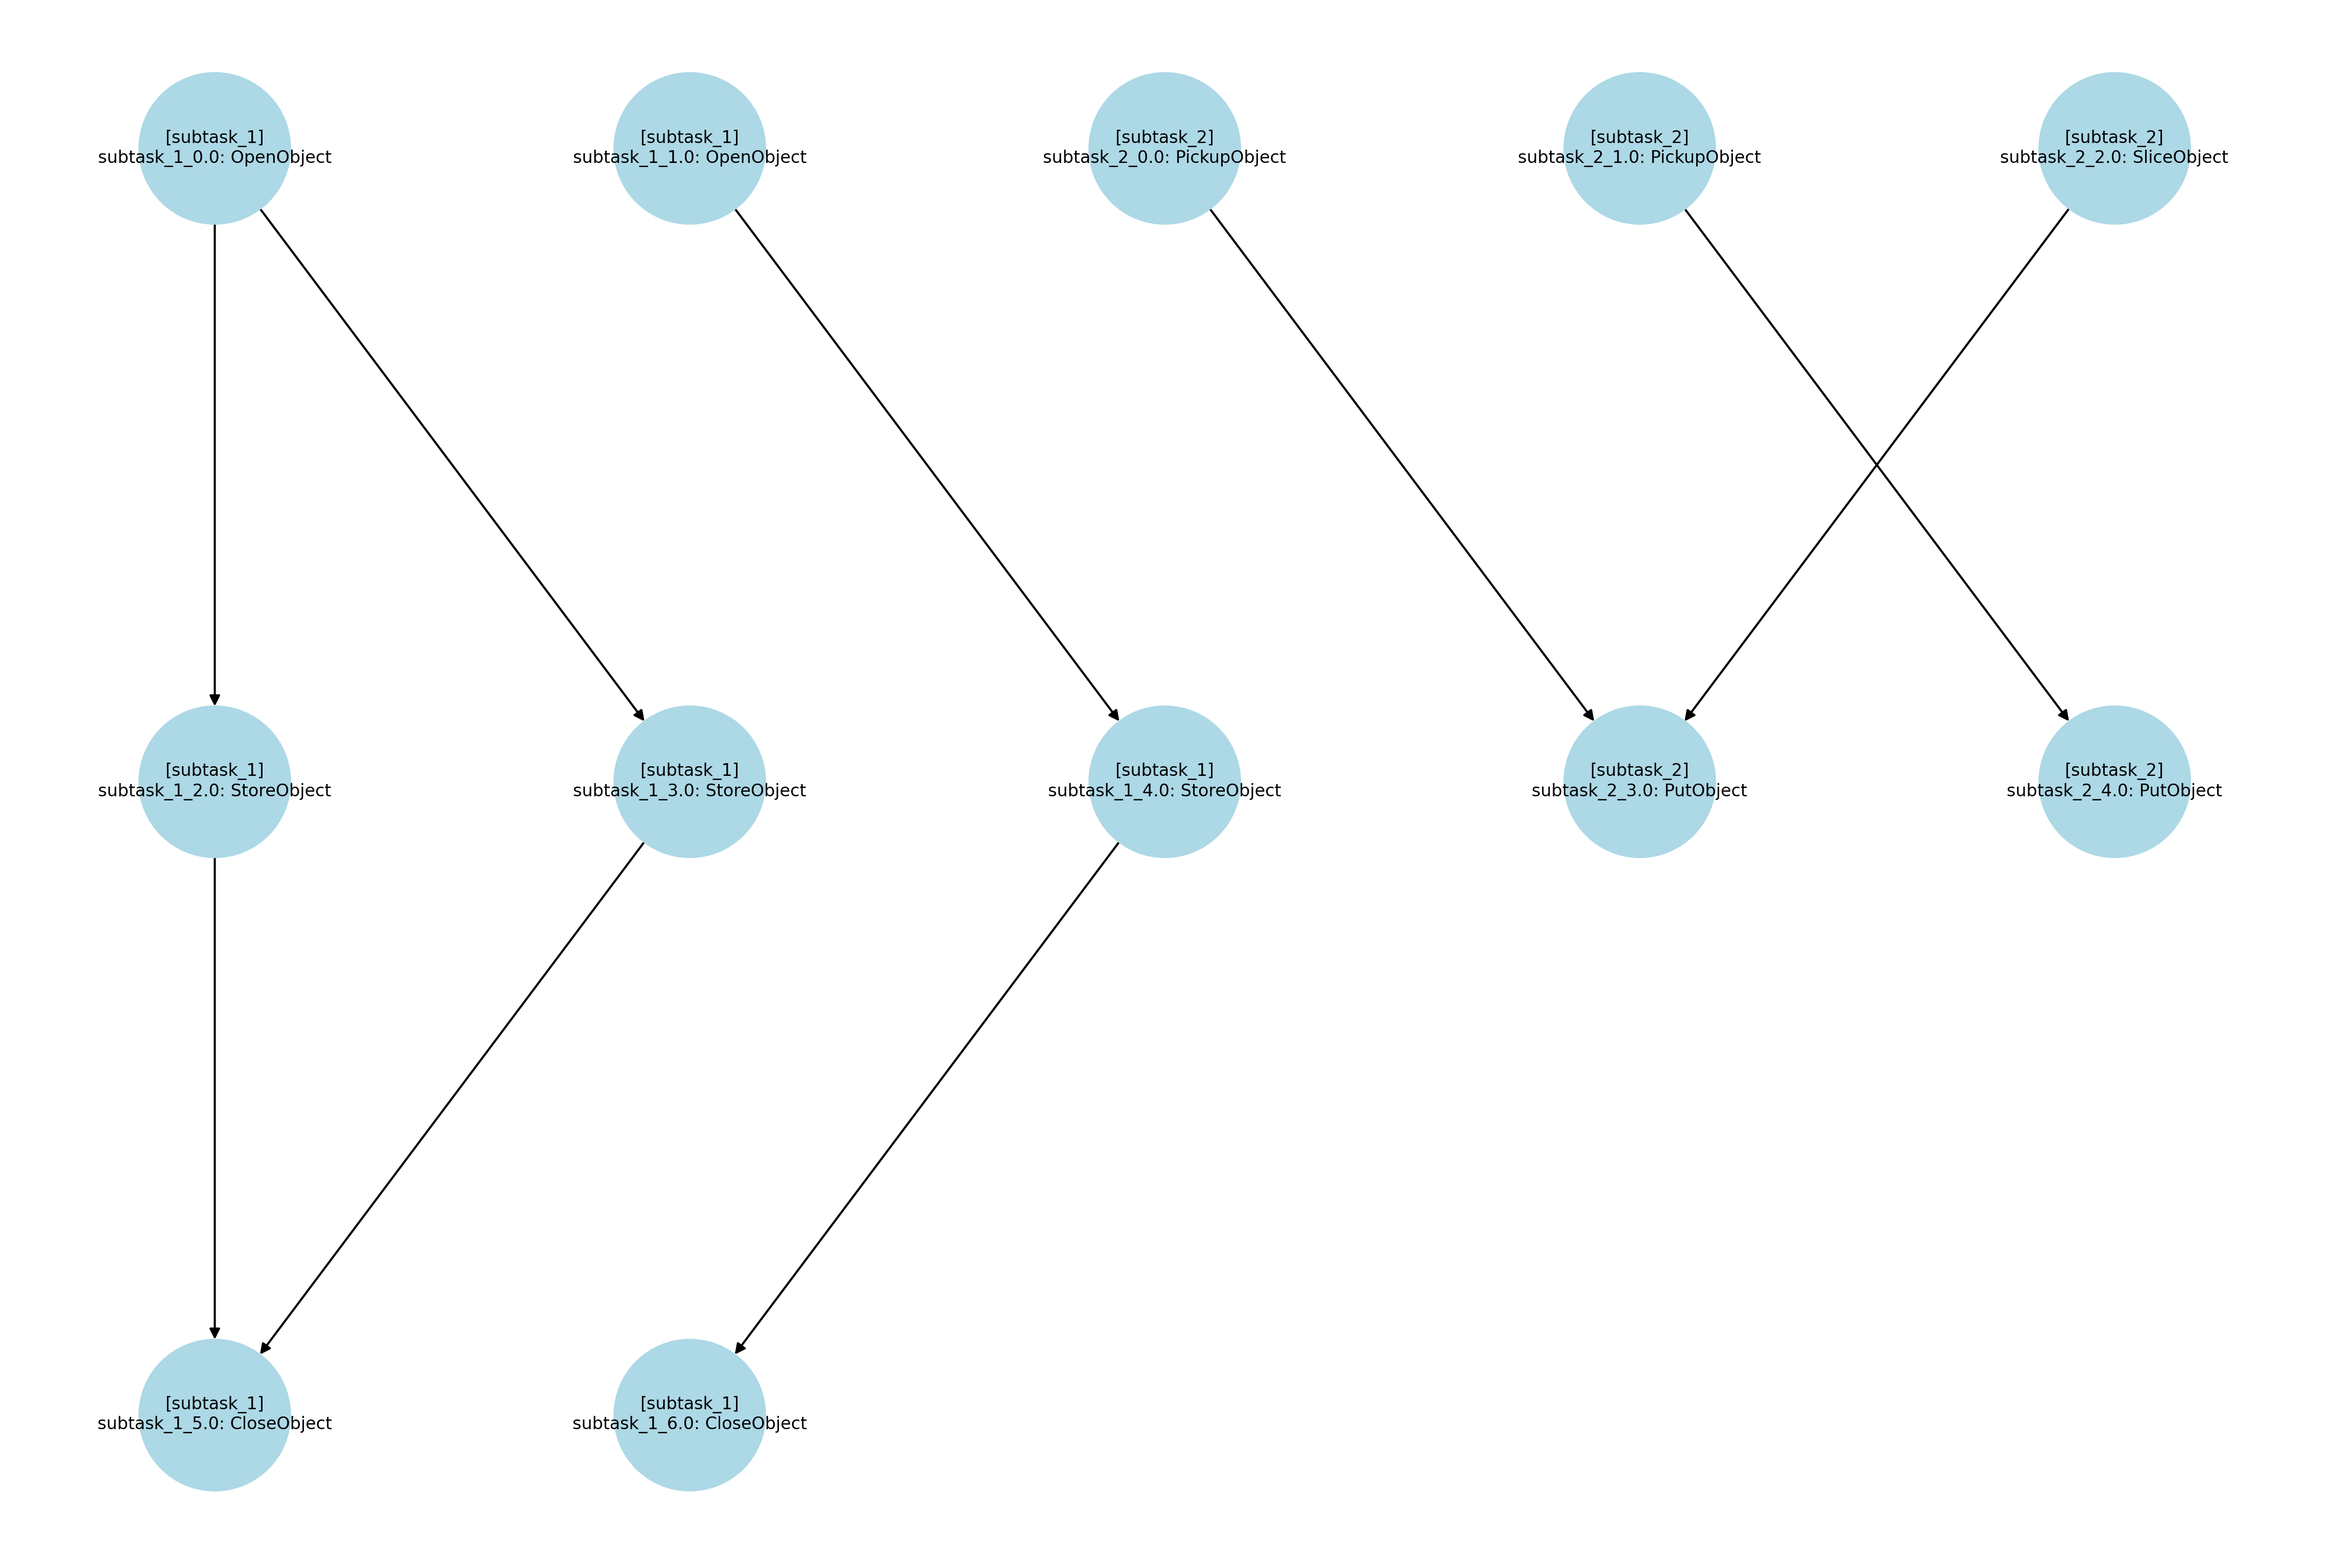
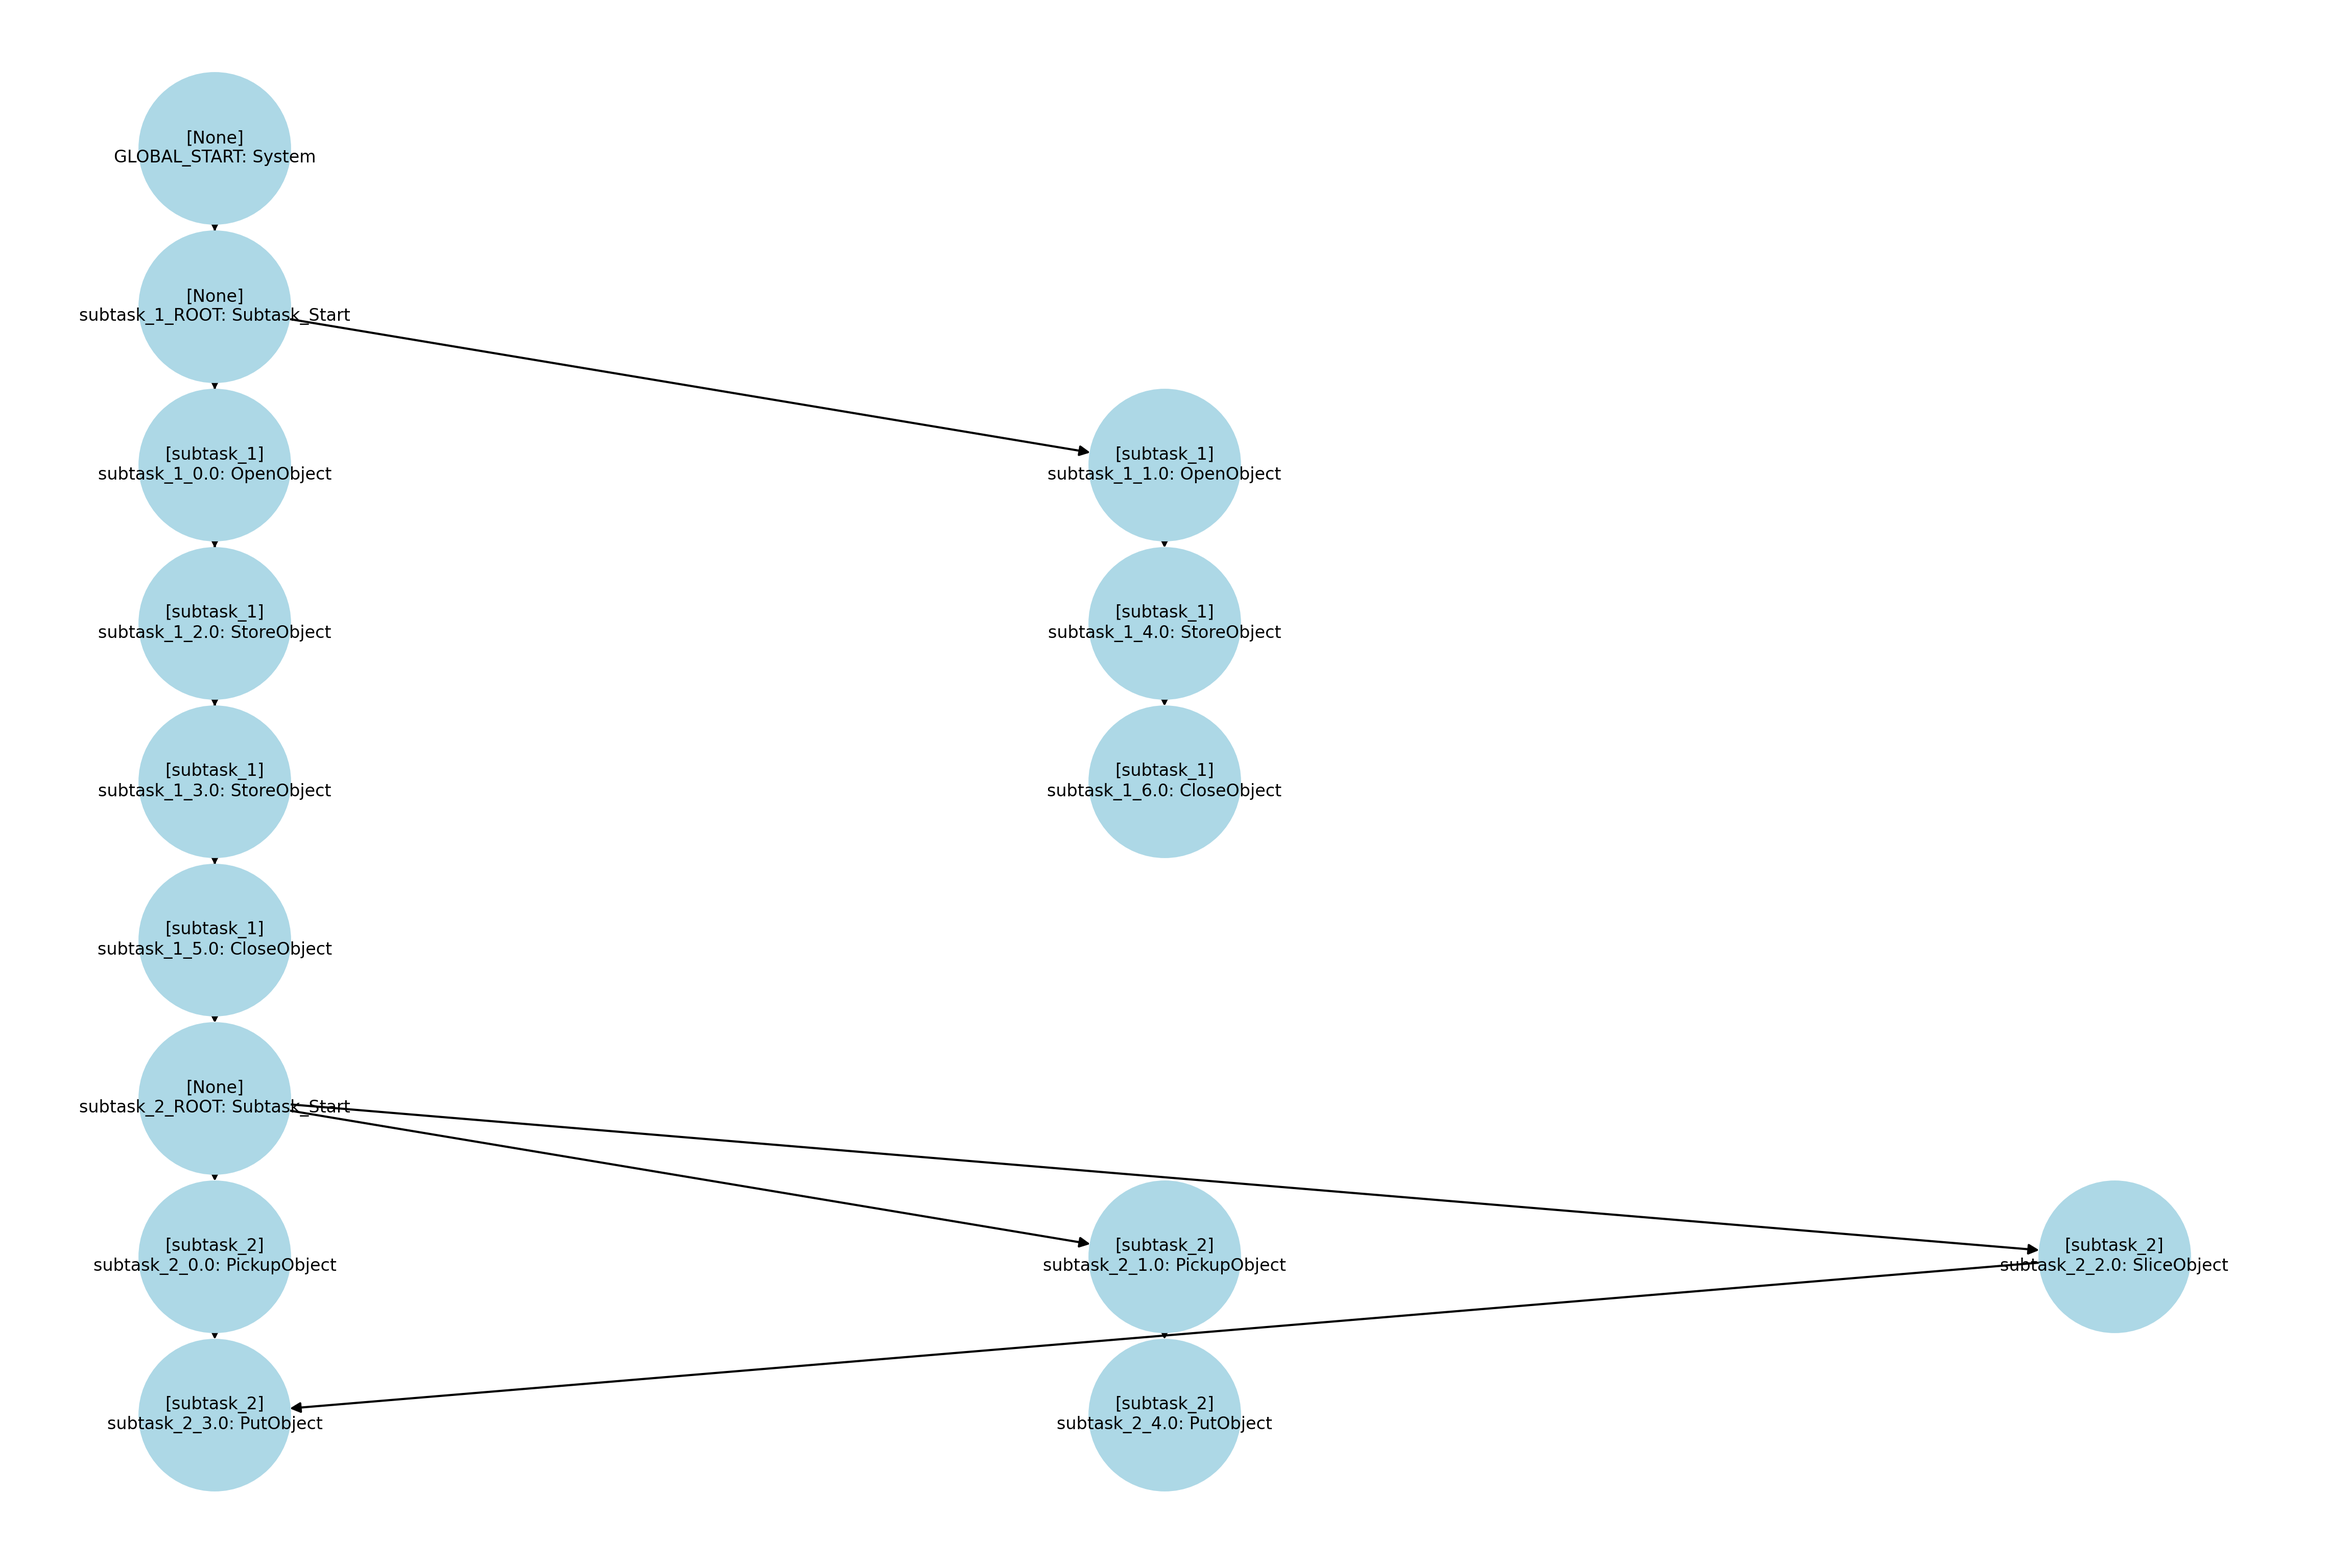
feat: Update Merging DAGs

diff --git a/DAG/DAG_Module.py b/DAG/DAG_Module.py
@@ -448,74 +448,78 @@ class DAGMerger:
             raise ValueError(f"Unknown merge strategy: {merge_strategy}")
     
     def _merge_with_llm(self, dags: List[DAG]) -> DAG:
-        """LLM을 사용한 DAG 통합"""
-        print("Merging DAGs using LLM...")
+        """
+        각 Subtask마다 고유한 Root 노드를 생성하고,
+        통합 DAG는 이 Root들 사이의 선후 관계만 정의합니다.
+        """
+        print("Merging DAGs: One Root per Subtask Strategy")
         
-        merged = DAG(subtask_id='merged_llm')
+        merged = DAG(subtask_id='merged_hierarchical')
         
+        # 1. 전체 시스템의 시작점
+        global_start = PDDLAction(action_id="GLOBAL_START", action_type="System", params=["Start"])
+        merged.add_node(global_start)
+
+        subtask_root_ids = {} # {subtask_id: root_node_id}
+        subtask_exit_nodes = {} # {subtask_id: [last_nodes]}
+
         for dag in dags:
+            # 2. 각 Subtask를 대표하는 명시적 'Subtask Root' 생성
+            s_root_id = f"{dag.subtask_id}_ROOT"
+            s_root_action = PDDLAction(action_id=s_root_id, action_type="Subtask_Start", params=[dag.subtask_id])
+            merged.add_node(s_root_action)
+            subtask_root_ids[dag.subtask_id] = s_root_id
+            
+            # 기본적으로 모든 Subtask Root는 글로벌 스타트에 연결 (병렬 대기)
+            merged.add_edge("GLOBAL_START", s_root_id)
+
+            # 3. Subtask 내부 액션 및 의존성 복사
             for node_id, action in dag.nodes.items():
-                # 고유 식별자 생성 (예: subtask_1_0.0)
-                unique_id = f"{dag.subtask_id}_{node_id}"
-                
-                new_action = PDDLAction(
-                    action_id=unique_id, 
-                    action_type=action.action_type, 
-                    params=action.params, 
-                    subtask_id=dag.subtask_id
-                )
-                merged.add_node(new_action)
-                
-            # 기존 서브태스크 내부 엣지들도 고유 ID로 다시 연결
+                u_id = f"{dag.subtask_id}_{node_id}"
+                merged.add_node(PDDLAction(u_id, action.action_type, action.params, dag.subtask_id))
+            
             for target, sources in dag.edges.items():
-                for source in sources:
-                    merged.add_edge(f"{dag.subtask_id}_{source}", f"{dag.subtask_id}_{target}")
-        
-        subtask_summary = "\n\n".join([
-            f"Subtask {dag.subtask_id}:\n" + "\n".join([str(action) for action in dag.nodes.values()])
-            for dag in dags
-        ])
+                for src in sources:
+                    merged.add_edge(f"{dag.subtask_id}_{src}", f"{dag.subtask_id}_{target}")
 
-        prompt = f"""You are a specialized robot task coordinator.
-Analyze dependencies ONLY BETWEEN different subtasks. 
+            # 4. Subtask Root를 해당 Subtask의 첫 번째 액션들에 연결
+            if dag.layers:
+                for first_node in dag.layers[0]:
+                    merged.add_edge(s_root_id, f"{dag.subtask_id}_{first_node}")
+                
+                # 의존성 연결을 위해 마지막 노드들 보관
+                subtask_exit_nodes[dag.subtask_id] = [f"{dag.subtask_id}_{nid}" for nid in dag.layers[-1]]
 
-### CONTEXT:
-{subtask_summary}
+        # 5. LLM에게 Subtask Root 간의 의존성 질문
+        prompt = f"""Analyze dependencies between subtasks.
+Current Subtasks: {list(subtask_root_ids.keys())}
 
-### STRICT RULES:
-1. INTERNAL SEQUENCE PRESERVATION: Each subtask has its own fixed sequence (0.0 -> 1.0 -> 2.0). NEVER add or suggest dependencies between actions within the same subtask.
-2. INTER-SUBTASK ONLY: Only find constraints where an action in Subtask A must finish before an action in Subtask B can start.
-3. UNIQUE IDs: Use the full unique IDs (e.g., subtask_1_0.0) in your output.
+Rules:
+1. If Subtask B requires results from Subtask A, create a dependency.
+2. Dependencies must only be between Subtask names.
 
-Output ONLY JSON:
-{{
-  "inter_subtask_dependencies": [
-    {{
-      "source_action": "subtask_1_5.0", 
-      "target_action": "subtask_2_0.0", 
-      "reason": "Subtask 2 needs an item that was processed in Subtask 1"
-    }}
-  ]
-}}"""
+Output JSON:
+{{ "dependencies": [ {{ "from": "subtask_1", "to": "subtask_2" }} ] }}"""
 
         try:
-            for dep in inter_deps:
-                source = dep.get('source_action')
-                target = dep.get('target_action')
-                
-                if source and target and source in merged.nodes and target in merged.nodes:
-                    source_sub_id = merged.nodes[source].subtask_id
-                    target_sub_id = merged.nodes[target].subtask_id
-                    
-                    if source_sub_id != target_sub_id:
-                        merged.add_edge(source, target)
-                        print(f"  Added Inter-Subtask Edge: {source} -> {target}")
-                    else:
-                        print(f"  Ignored Intra-Subtask Edge: {source} -> {target} (Already handled)")
-                        
+            _, response = self.llm.query_model(prompt=prompt, temperature=0.2)
+            import json
+            deps = json.loads(re.search(r'\{.*\}', response, re.DOTALL).group(0)).get('dependencies', [])
+
+            # 6. Root 간 의존성 부여 (A의 종료 노드들 -> B의 Root 노드)
+            for dep in deps:
+                from_sub = dep.get('from')
+                to_sub = dep.get('to')
+
+                if from_sub in subtask_exit_nodes and to_sub in subtask_root_ids:
+                    target_root = subtask_root_ids[to_sub]
+                    for exit_node in subtask_exit_nodes[from_sub]:
+                        merged.add_edge(exit_node, target_root)
+                        print(f"  [Link] {from_sub} Complete -> {target_root} (Start)")
+                            
         except Exception as e:
-            print(f"LLM merge failed: {e}. Using parallel merge as fallback.")
-        
+            print(f"LLM Merge failed: {e}")
+
         merged.compute_layers()
         return merged
     
